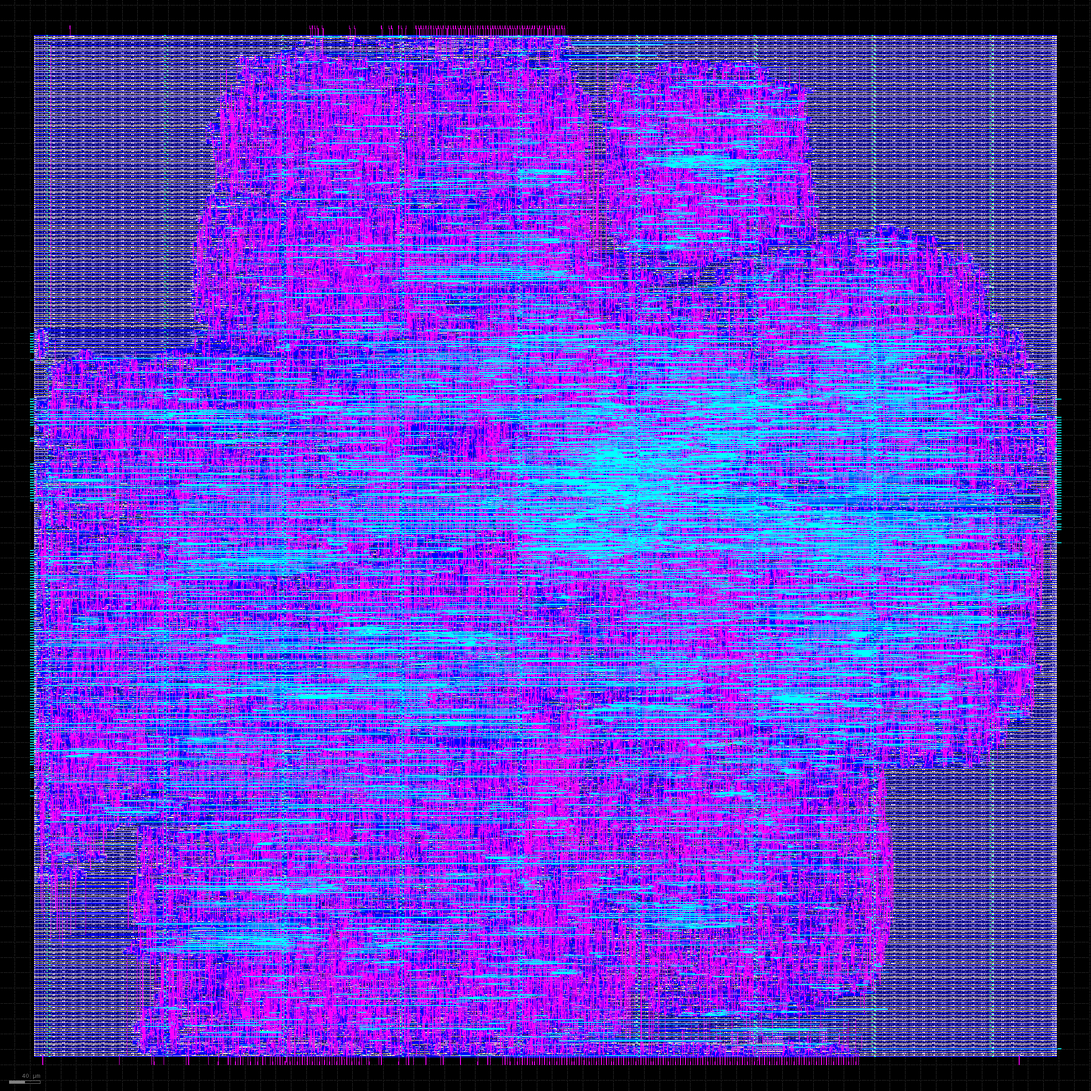
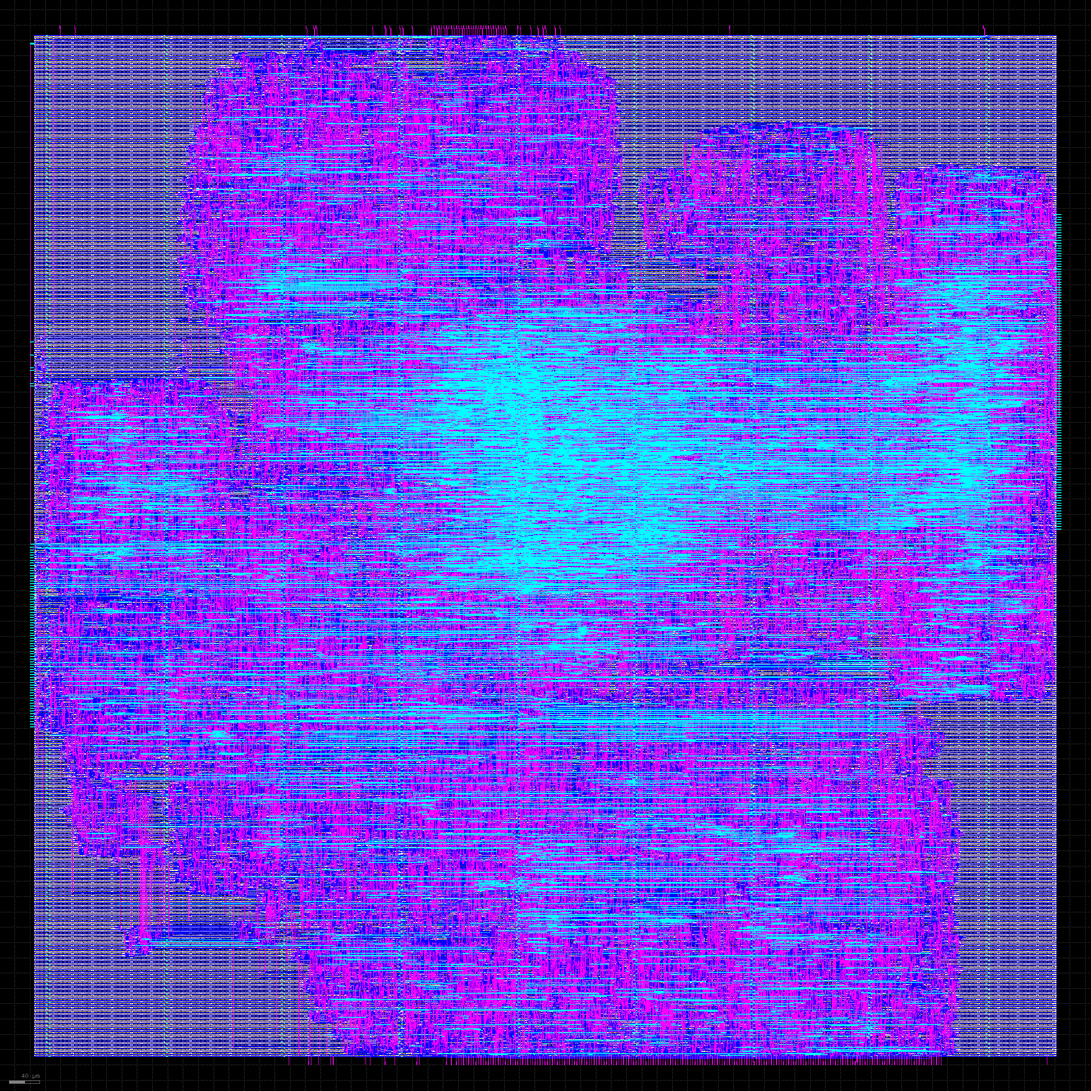
Chip layout rerun: antenna violations 153 -> 29, slow corner 36 -> 41.7 MHz
- OpenLane with diode insertion and post-route timing repair, on the RTL with
  the two-cycle minstret write and the valid-only flush.
- DRC 0 (Magic and KLayout), LVS 0; typical corner 77.9 MHz, slow corner
  41.7 MHz (worst extraction 39.9 MHz); 1.83 mm2, 146,809 instances, 135 mW.
- Gate-level: all 50 riscv-tests on the new netlist match Spike (24,360
  instructions).
- Remaining: 29 antenna nets, max slew/cap/fanout warnings (grew with the
  inserted diodes and buffers), 50 MHz not met at the slow corner.

diff --git a/docs/asic.md b/docs/asic.md
@@ -5,42 +5,51 @@ RAMs are flip-flops when `ASIC` is defined), the branch predictor, and one 16-by
 outside memory. It's the same module that every cached lockstep test runs (`tb/tb_cached.sv`), so
 the RTL going into the flow is already checked instruction by instruction against Spike.
 
-## Result (run of 2026-11-11, OpenLane 2.3.10, Sky130A, `sky130_fd_sc_hd`)
+## Result (OpenLane 2.3.10, Sky130A, `sky130_fd_sc_hd`, 20 ns clock target)
 
 ![Layout of rv32im_asic: signal routing layers li1 and metal 1-3](images/asic_layout.png)
 
 *Signal routing (local interconnect and metal 1 to 3); the power grid on metal 4 and 5 is hidden.
 `tools/layout_png.py` renders it from the final GDS.*
 
-| | Result |
-|---|---|
-| Die / core area | 1.82 mm² / 1.77 mm² (cells: 0.81 mm², 45% utilization) |
-| Instances | 95,916 |
-| DRC (Magic, KLayout) | **0 / 0** |
-| LVS | **0 errors** |
-| Timing at 50 MHz, typical corner (25 °C, 1.8 V) | **+5.49 ns slack: Fmax 68.9 MHz** |
-| Timing, fast corner (-40 °C, 1.95 V) | +10.54 ns: 105.7 MHz |
-| Timing, slow corner (100 °C, 1.6 V) | **-7.81 ns: 36.0 MHz** (worst extraction corner -8.35 ns: 35.3 MHz). Does not meet 50 MHz here |
-| Hold | met at every corner (worst +0.11 ns) |
-| Gate-level simulation | **50 / 50 riscv-tests (rv32ui + rv32um) match Spike on the final netlist**: 24,360 instructions compared (Icarus Verilog, Sky130 cell models) |
-| Power (OpenSTA, default switching activity) | 149 mW |
-| Not clean yet | 153 antenna violations; max slew / max capacitance / max fanout warnings (e.g. 101 / 72 / 653 at the typical corner) |
+| | First run (2026-11-11) | **Current (2026-11-12)** |
+|---|---|---|
+| Die / core area | 1.82 / 1.77 mm² | **1.83 / 1.79 mm²** |
+| Cell area, utilization | 0.81 mm², 45% | 0.94 mm², 52% |
+| Instances | 95,916 | 146,809 (inserted diodes and buffers) |
+| DRC (Magic, KLayout) / LVS | 0 / 0 / 0 | **0 / 0 / 0** |
+| Antenna violations | 153 nets | **29 nets** (40 pins) |
+| Typical corner (25 °C, 1.8 V) | +5.49 ns: 68.9 MHz | **+7.16 ns: 77.9 MHz** |
+| Fast corner (-40 °C, 1.95 V) | +10.54 ns: 105.7 MHz | +10.47 ns: 104.9 MHz |
+| Slow corner (100 °C, 1.6 V) | -7.81 ns: 36.0 MHz | **-3.97 ns: 41.7 MHz** (worst extraction -5.08 ns: 39.9 MHz) |
+| Hold | met (worst +0.11 ns) | met (worst +0.07 ns) |
+| Power (OpenSTA, default switching activity) | 149 mW | 135 mW |
+| Max slew / cap / fanout warnings, typical corner | 101 / 72 / 653 | 945 / 189 / 5,263 |
+| Gate-level simulation (50 riscv-tests vs Spike) | 50 / 50 (24,360 instructions) | **50 / 50** (24,360 instructions) |
 
-All numbers are from `final/metrics.json` of that run (copied to
-[results/asic_metrics_2026-11-11.json](results/asic_metrics_2026-11-11.json)); `tools/asic_report.py`
+Raw metrics: [results/asic_metrics_2026-11-11.json](results/asic_metrics_2026-11-11.json) and
+[results/asic_metrics_2026-11-12.json](results/asic_metrics_2026-11-12.json); `tools/asic_report.py`
 prints them.
 
+What changed between the runs:
+- **RTL** (found from the first run's timing report): the slowest path, by 3.7 ns, was a software
+  write to the `minstret` counter (forwarding, CSR logic and a 64-bit subtraction in one cycle). The
+  write now takes two cycles and flushes the younger instructions like FENCE.I. The next path, the
+  branch-mispredict flush, gated the load of every field of two pipeline registers; now it only
+  clears their valid bits. Same cycle counts on the board.
+- **Flow settings**: diode insertion on (heuristic, and on input ports), and timing repair after
+  global routing.
+
 What it means:
-- **The layout passes the design-rule and layout-vs-netlist checks** (DRC, LVS). It isn't
-  sign-off ready yet: the antenna violations (long wires that could damage
-  transistor gates during manufacturing) need diodes, which OpenLane can insert
-  (`DIODE_ON_PORTS`, `RUN_HEURISTIC_DIODE_INSERTION`); the slew/capacitance warnings are nets driven
-  by cells too weak for their load, usually fixed by more buffering in the repair steps.
-- **50 MHz holds at typical conditions but not at the slow corner.** The slowest Sky130 corner is
-  about half the speed of the typical one. Meeting 50 MHz everywhere means either a longer clock
-  target there or shortening the slowest paths.
-- For comparison, the FPGA build with the same core meets 50 MHz on the DE10-Lite; in Sky130
-  (130 nm) the typical corner reaches 68.9 MHz.
+- **DRC and LVS are clean** in both runs: the layout follows the fab's rules and matches the netlist.
+  Antenna violations dropped from 153 to 29 nets; the rest need more repair iterations or manual
+  fixes before a real tape-out.
+- **The slow corner still misses 50 MHz** (41.7 MHz). After the fixes the worst paths are spread over
+  many unrelated places (performance counters, BTB writes, cache data, return stack): the eleven
+  worst register groups are all between -2.8 and -4.0 ns, so no single path is left to fix: 50 MHz
+  there would need a deeper pipeline.
+- **The electrical warnings grew**: the inserted diodes and buffers add load, so more nets exceed the
+  max slew, capacitance and fanout limits. These are the next thing to repair.
 
 ## How it was brought up (and three tool problems)
 

diff --git a/docs/notes.md b/docs/notes.md
@@ -1601,9 +1601,15 @@ instances in 1.82 mm².
 
 ### Corners
 The same circuit is slower when hot, at low voltage, or on a "slow" wafer, so timing is checked at
-corners. Here: typical (25 °C, 1.8 V) 68.9 MHz, fast (-40 °C, 1.95 V) 105.7 MHz, slow (100 °C,
-1.6 V) 36.0 MHz. A chip is specified at its slowest corner, so as it stands this one is a 35 MHz
-part; reaching 50 MHz there needs the slow paths shortened (or pipelining).
+corners. First run: typical (25 °C, 1.8 V) 68.9 MHz, fast (-40 °C, 1.95 V) 105.7 MHz, slow (100 °C, 1.6 V)
+36.0 MHz. The timing report showed one path far worse than the rest (a software write to the
+`minstret` counter: forwarding, CSR logic and a 64-bit subtraction in one cycle), then the
+mispredict flush, which gated every field of two pipeline registers. After fixing both in the RTL
+(two-cycle counter write; the flush only clears valid bits) and turning on timing repair after
+routing: typical 77.9 MHz, slow 41.7 MHz (worst extraction corner 39.9 MHz). A chip is specified at
+its slowest corner, so this is a ~40 MHz part; the remaining worst paths are spread over many
+places, so 50 MHz there would need a deeper pipeline. Fixing the counter path also exposed a real
+bug: writing the counter's high half lost two counts (caught by a new lockstep test).
 
 ### Gate-level simulation
 The final netlist (after placement, clock tree and buffering) was simulated with the PDK's cell
@@ -1627,8 +1633,8 @@ faster cells. I report both numbers instead of only the typical one.
 **What are antenna violations?**
 During manufacturing, a long metal wire collects charge before the upper layers connect it to a
 driver; if only a transistor gate is attached, the charge can damage the thin gate oxide. Fixes:
-add a diode to drain the charge, or break the wire with a jump to a higher layer. Here 153 nets are
-flagged; OpenLane can insert the diodes.
+add a diode to drain the charge, or break the wire with a jump to a higher layer. The first run had 153
+flagged nets; with OpenLane's diode insertion on, 29.
 
 **Why convert SystemVerilog with sv2v instead of feeding it to the tools directly?**
 Open-source synthesis (Yosys) reads only part of SystemVerilog, and its SystemVerilog plugin

diff --git a/docs/project_summary.md b/docs/project_summary.md
@@ -51,10 +51,11 @@ used for Doom).
   149/182 M9K, meets 50 MHz (Fmax varies 51-57 MHz between builds).
 - Tradeoff table (12 configurations, Quartus cost vs CoreMark): predictor costs 1,657 LEs (12%) for
   +16.5%; caches have a knee at 2-4 KB; 2-way only helps small caches.
-- Sky130 layout (core + predictor + 256-byte caches, OpenLane 2): 1.82 mm2 die, 95,916 instances,
-  Magic/KLayout DRC 0, LVS 0; 68.9 MHz typical corner, 36.0 MHz slow corner (100C, 1.6 V); 149 mW
+- Sky130 layout (core + predictor + 256-byte caches, OpenLane 2): 1.83 mm2 die, 146,809 instances,
+  Magic/KLayout DRC 0, LVS 0; 77.9 MHz typical corner, 41.7 MHz slow corner (100C, 1.6 V); 135 mW
   estimated. Gate-level simulation of the final netlist: all 50 riscv-tests match Spike (24,360
-  instructions). Not sign-off clean: 153 antenna violations, slow corner misses 50 MHz.
+  instructions). Not sign-off clean: 29 antenna violations, slew/cap/fanout warnings,
+  slow corner misses 50 MHz (worst paths spread out; would need a deeper pipeline).
 
 ## Verification
 Every retired instruction compared with Spike (lockstep via rvfi signals): riscv-tests rv32ui 42/42
@@ -82,6 +83,7 @@ fpga/de10lite/ (Quartus), asic/ (OpenLane flow), docs/ (README results, notes.md
 and interview questions, board_bringup.md, asic.md, results/ board logs).
 
 ## Status and what's left
-All stages done (0-6 + Doom). Optional: fix the chip's antenna violations (diode insertion) and the
-slow-corner timing (worst paths: minstret CSR write, then the branch-mispredict flush); film a demo;
+All stages done (0-6 + Doom). The chip's two worst paths were fixed in the RTL (slow corner 36 ->
+41.7 MHz), diode insertion cut antenna violations 153 -> 29, and that work found a real bug
+(minstreth writes lost 2 counts, now fixed). Optional: remaining antennas and electrical warnings; film a demo;
 possible future stages: interrupts + a small OS (FreeRTOS), out-of-order execution.

diff --git a/README.md b/README.md
@@ -16,7 +16,7 @@ SystemVerilog, grown into a system-on-chip on the Terasic DE10-Lite (Intel MAX 1
 | 4 | Systolic array accelerator, MNIST software vs accelerator | **runs on the DE10-Lite**: 16x16 NPU, MNIST bit-exact, 38.49x faster than software |
 | 5 | I/D caches, branch predictor, CoreMark, measured tradeoffs | **runs on the DE10-Lite**: 2.70 CoreMark/MHz; [tradeoff table](docs/notes.md#stage-5-the-tradeoff-table) |
 | Doom | doomgeneric with picolibc, 8-bit VGA mode, keyboard over the UART | **runs on the DE10-Lite**: playable with the laptop's keyboard, 11.7 fps in Doom's timedemo |
-| 6 | OpenLane on Sky130 | **GDS layout**: DRC and LVS clean, 68.9 MHz at the typical corner, gate-level netlist passes the riscv-tests ([docs/asic.md](docs/asic.md)) |
+| 6 | OpenLane on Sky130 | **GDS layout**: DRC and LVS clean, 77.9 MHz at the typical corner, gate-level netlist passes the riscv-tests ([docs/asic.md](docs/asic.md)) |
 
 The full plan for each stage is in [docs/roadmap.md](docs/roadmap.md).
 Plain-English explanations of every part of the design, with interview questions,
@@ -102,10 +102,10 @@ is the slowest. (`python tools/bp_sweep.py`; 1-cycle memory, simulation.)
 
 | Area | DRC / LVS | Fmax (typical / slow corner) | Power | Gate-level riscv-tests |
 |---|---|---|---|---|
-| 1.82 mm² die, 95,916 instances | 0 / 0 errors | 68.9 MHz / 36.0 MHz | 149 mW (estimate) | 50 / 50 match Spike |
+| 1.83 mm² die, 146,809 instances | 0 / 0 errors | 77.9 MHz / 41.7 MHz | 135 mW (estimate) | 50 / 50 match Spike |
 
-Not yet sign-off clean: 153 antenna violations and max slew/capacitance warnings remain, and 50 MHz
-is not met at the slow corner.
+Not yet sign-off clean: 29 antenna violations and max slew/capacitance/fanout warnings remain, and
+50 MHz is not met at the slow corner.
 
 **Doom on the board** ([board log](docs/results/board_2026-11-11.md#doom), [how it works](docs/notes.md#doom))
 
